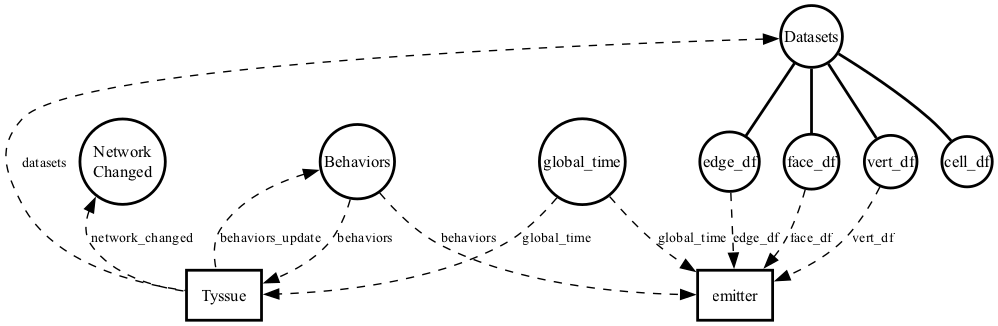
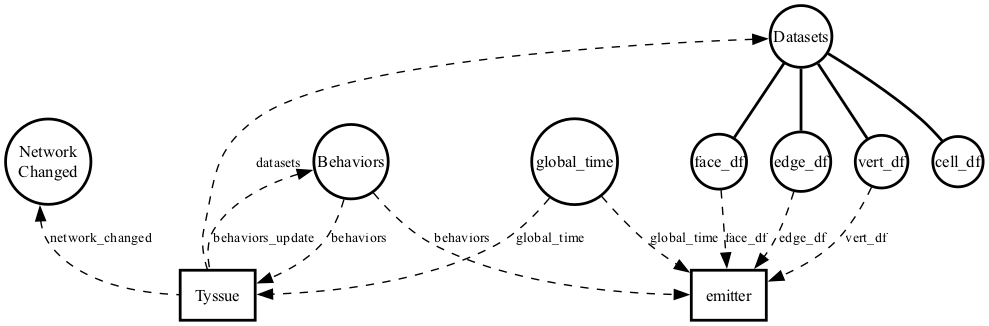
combined divide and divide_crypt

diff --git a/vivarium_tyssue/behaviors/behaviors.py b/vivarium_tyssue/behaviors/behaviors.py
@@ -42,7 +42,7 @@ def divide_cell(sheet, geom, radius=None, cell_uid=None, cell_idx=None):
     return daughter
 
 def division(
-        sheet, manager, geom= "SheetGeometry", cell_uid=0, crit_area=2.0, growth_rate=0.1, dt=1.
+        sheet, manager, geom= "SheetGeometry", cell_uid=0, cell_type=None, crit_area=2.0, growth_rate=0.1, dt=1.
 ):
     """Defines a division behavior.
 
@@ -50,45 +50,19 @@ def division(
     ----------
 
     sheet: a :class:`Sheet` object
-    cell_id: int
-        the index of the dividing cell
+    cell_uid: int
+        the unique_id of the dividing cell
+    cell_type: str, optional
+        If provided, the cell is flagged "dividing" while it grows and both the
+        mother and daughter faces are stamped with this cell_type once division
+        occurs. If None (default), no cell_type bookkeeping is done and the
+        behavior matches the plain division.
     crit_area: float
-        the area at which
+        the area at which the cell divides
     growth_rate: float
         increase in the prefered are per unit time
         A_0(t + dt) = A0(t) * (1 + growth_rate * dt)
     """
-    if type(geom) == str:
-        geometry = GEOMETRY_MAP[geom]
-    else:
-        geometry = geom
-    cell_id = int(sheet.face_df[sheet.face_df["unique_id"] == cell_uid].index[0])
-    if sheet.face_df.loc[cell_id, "area"] > crit_area:
-        # restore prefered_area
-        sheet.face_df.loc[cell_id, "prefered_area"] = 1.0
-        # Do division
-        daughter = cell_division(sheet, cell_id, geometry)
-        # Update the topology
-        sheet.reset_index(order=True)
-        # update geometry
-        geometry.update_all(sheet)
-        sheet.network_changed = True
-        print(f"cell n°{daughter} is born")
-    else:
-        #
-        sheet.face_df.loc[cell_id, "prefered_area"] *= (1 + dt * growth_rate)
-        manager.append(
-            division,
-            geom=geom,
-            cell_uid=cell_uid,
-            crit_area=crit_area,
-            growth_rate=growth_rate,
-            dt=dt
-        )
-
-def divide_crypt(
-        sheet, manager, geom= "SheetGeometry", cell_uid=0, cell_type="None", crit_area=2.0, growth_rate=0.1, dt=1.
-    ):
     if type(geom) == str:
         geometry = GEOMETRY_MAP[geom]
     else:
@@ -101,7 +75,8 @@ def divide_crypt(
         print("Cell not found, skipping division")
         return
     cell_id = int(match[0])
-    sheet.face_df.loc[cell_id, "cell_type"] = "dividing"
+    if cell_type is not None:
+        sheet.face_df.loc[cell_id, "cell_type"] = "dividing"
     if sheet.face_df.loc[cell_id, "area"] > crit_area:
         # restore prefered_area
         sheet.face_df.loc[cell_id, "prefered_area"] = 1.0
@@ -112,14 +87,15 @@ def divide_crypt(
         # update geometry
         geometry.update_all(sheet)
         sheet.network_changed = True
-        sheet.face_df.loc[cell_id, "cell_type"] = cell_type
-        sheet.face_df.loc[daughter, "cell_type"] = cell_type
+        if cell_type is not None:
+            sheet.face_df.loc[cell_id, "cell_type"] = cell_type
+            sheet.face_df.loc[daughter, "cell_type"] = cell_type
         print(f"cell n°{daughter} is born")
     else:
         #
         sheet.face_df.loc[cell_id, "prefered_area"] *= (1 + dt * growth_rate)
         manager.append(
-            divide_crypt,
+            division,
             geom=geom,
             cell_uid=cell_uid,
             cell_type=cell_type,

diff --git a/tests/tests.py b/tests/tests.py
@@ -150,10 +150,10 @@ def get_test_regulation_spec(interval=0.1, config=None, double=False):
         "address": "local:TestRegulations",
         "config": {
             "period": 5,
-            "geom": "VesselGeometry",
+            "geom": "SheetGeometry",
             "crit_area": 2,
             "growth_rate": 0.2,
-            "double": False,
+            "double": double,
         },
         "inputs": {
             "global_time": ["global_time"],
@@ -164,16 +164,16 @@ def get_test_regulation_spec(interval=0.1, config=None, double=False):
         },
         "interval": interval,
     }
-    if double:
-        spec["Regulation"]["config"]["double"] = True
 
     return spec
 
-def run_test_regulation(core, double = False, tf=20, dt=0.1):
+def run_test_regulation(core, double = False, tf=20, dt=0.1, config=None):
+    if config is None:
+        config = get_test_config_flat()
     if double:
-        spec = get_test_regulation_spec(interval=dt, double=True)
+        spec = get_test_regulation_spec(interval=dt, config=config, double=True)
     else:
-        spec = get_test_regulation_spec(interval=dt)
+        spec = get_test_regulation_spec(interval=dt, config=config)
     spec["emitter"] = test_emitter
 
     sim = Composite(

diff --git a/vivarium_tyssue/processes/regulations.py b/vivarium_tyssue/processes/regulations.py
@@ -61,7 +61,7 @@ class TestRegulations(Process):
             faces = inputs["datasets"]["face_df"]
             positive_y = faces.loc[(faces["y"] > 1) & (faces["z"] > -7) & (faces["z"] < 7)]
             def pick():
-                return random.choice(positive_y.index)
+                return int(random.choice(positive_y["unique_id"].values))
 
             base = {
                 "geom": self.config["geom"],
@@ -72,9 +72,9 @@ class TestRegulations(Process):
             }
 
             if self.config["double"]:
-                update = [{**base, "cell_id": pick()}, {**base, "cell_id": pick()}]
+                update = [{**base, "cell_uid": pick()}, {**base, "cell_uid": pick()}]
             else:
-                update = [{**base, "cell_id": pick()}]
+                update = [{**base, "cell_uid": pick()}]
 
         else:
             update = []

diff --git a/vivarium_tyssue/processes/tumor_coupling.py b/vivarium_tyssue/processes/tumor_coupling.py
@@ -112,7 +112,7 @@ class TumorCoupling(Process):
         "copasi_time": "float",
         "copasi_intervals": "integer",
         # topology_ops=true uses real tyssue cell_division / remove_face behaviors
-        # (divide_crypt / apoptosis_extrusion). Those crash under the pandas-3.0 /
+        # (division / apoptosis_extrusion). Those crash under the pandas-3.0 /
         # numpy-2.2 that the COPASI stack forces (tyssue 1.1.0 topology is
         # incompatible). Default false: drive cell FATE on a fixed-topology mesh —
         # birth relabels a source cell into the target type, death relabels a cell
@@ -186,7 +186,7 @@ class TumorCoupling(Process):
 
     # -- behavior dict builders (shapes match gillespie.py / behaviors.py) --
     def _divide(self, uid, cell_type):
-        return {"func": "divide_crypt", "geom": self.geom, "cell_uid": int(uid),
+        return {"func": "division", "geom": self.geom, "cell_uid": int(uid),
                 "dt": self.dt, "cell_type": cell_type, "crit_area": self.division_crit,
                 "growth_rate": self.growth_rate}
 

diff --git a/vivarium_tyssue/processes/gillespie.py b/vivarium_tyssue/processes/gillespie.py
@@ -166,7 +166,7 @@ class Gillespie(Process):
         if rate_event/self.rates_max[cell_type][jump] >= u1:
             if jump == cell_type:
                 event = [{
-                    "func": "divide_crypt",
+                    "func": "division",
                     "geom": self.geom,
                     "cell_uid": cell_uid,
                     "dt": self.global_interval,

diff --git a/vivarium_tyssue/maps/behavior_maps.py b/vivarium_tyssue/maps/behavior_maps.py
@@ -10,7 +10,6 @@ BEHAVIOR_MAP = {
     "update_tension": update_tension,
     "cell_jamming": cell_jamming,
     "apply_gradient": apply_gradient,
-    "divide_crypt": divide_crypt,
     "apoptosis_extrusion": apoptosis_extrusion,
     "differentiation": differentiation,
 }

diff --git a/docs/superpowers/plans/2026-06-12-tumor-tyssue-coupling.md b/docs/superpowers/plans/2026-06-12-tumor-tyssue-coupling.md
@@ -4,7 +4,7 @@
 
 **Goal:** Couple BioModels `BIOMD0000000903` (breast-cancer population ODE, run in COPASI) to a tyssue 2D vertex-model sheet so the SBML model's per-step birth/death fluxes drive discrete division/apoptosis/differentiation events on the mesh; deliver one investigation with two studies and a draft PR.
 
-**Architecture:** A new tyssue-side `TumorCoupling` process is *"Gillespie, but driven by COPASI reaction fluxes instead of internal rates."* Each step it reads the COPASI `fluxes` output, scales each birth/death flux into a fractional event accumulator per cell type, fires `floor(accumulator)` discrete behaviors (`divide_crypt` / `apoptosis_extrusion` / `differentiation`) on cells it selects from the tyssue `datasets`, and emits scalar observables (`tumor_births`, `healthy_deaths`, `tumor_count`, …). Three processes share `Behaviors` / `Datasets` / `global_time` stores exactly like the existing `gillespie.composite.yaml`. Births/deaths/composition timeseries reuse the framework's `local:TimeSeriesFromObservables`; one new `TissueSheetSnapshots` viz renders cell-type-colored panels.
+**Architecture:** A new tyssue-side `TumorCoupling` process is *"Gillespie, but driven by COPASI reaction fluxes instead of internal rates."* Each step it reads the COPASI `fluxes` output, scales each birth/death flux into a fractional event accumulator per cell type, fires `floor(accumulator)` discrete behaviors (`division` / `apoptosis_extrusion` / `differentiation`) on cells it selects from the tyssue `datasets`, and emits scalar observables (`tumor_births`, `healthy_deaths`, `tumor_count`, …). Three processes share `Behaviors` / `Datasets` / `global_time` stores exactly like the existing `gillespie.composite.yaml`. Births/deaths/composition timeseries reuse the framework's `local:TimeSeriesFromObservables`; one new `TissueSheetSnapshots` viz renders cell-type-colored panels.
 
 **Tech Stack:** process-bigraph, bigraph-schema, tyssue, pbg-copasi (`CopasiUTCProcess` + basico/COPASI), pbg-biomodels (`load_biomodel`), pbg-superpowers (Visualization, TimeSeriesFromObservables, study/investigation spine), matplotlib, pytest.
 
@@ -22,7 +22,7 @@
 - **Species:** `C` (stem, init 7.37e5), `T` (tumor, 7.62e6), `H` (healthy, 2.5e7), `I` (immune, 0), `E` (estrogen, 0). Fluxes are O(1e3–1e7).
 - **tyssue process:** `vivarium_tyssue.processes.eulersolver.EulerSolver`, `local:EulerSolver`. Inputs `behaviors: list[node]`, `global_time: float`. Outputs `datasets: tyssue_data`, `network_changed`, `behaviors_update`. Consumes behaviors via `BEHAVIOR_MAP` + `EventManager` (`vivarium_tyssue/processes/eulersolver.py:185-227`).
 - **Behavior dicts** (from `vivarium_tyssue/processes/gillespie.py:164-198`, executed by `vivarium_tyssue/behaviors/behaviors.py`):
-  - divide: `{"func": "divide_crypt", "geom": <str>, "cell_uid": <int>, "dt": <float>, "cell_type": <str>, "crit_area": <float>, "growth_rate": <float>}` → `cell_division` (immediate when `area > crit_area`).
+  - divide: `{"func": "division", "geom": <str>, "cell_uid": <int>, "dt": <float>, "cell_type": <str>, "crit_area": <float>, "growth_rate": <float>}` → `cell_division` (immediate when `area > crit_area`).
   - death: `{"func": "apoptosis_extrusion", "geom": <str>, "cell_uid": <int>, "dt": <float>, "crit_area": <float>, "shrink_rate": <float>}` → `remove_face` (immediate when `area < crit_area`).
   - differentiate: `{"func": "differentiation", "cell_uid": <int>, "new_type": <str>}` → relabels `face_df.cell_type`.
   - Immediate events: relaxed sheet faces have `area ≈ 1.0`, so `crit_area_div=0.5` (area>0.5 ⇒ divide) and `crit_area_apop=2.0` (area<2.0 ⇒ remove) make events fire on first execution.
@@ -430,7 +430,7 @@ def test_flux_step_fires_division_and_apoptosis():
               "H_birth": 0.0, "C_birth": 0.0, "C_death": 0.0}
     out = proc.update({"fluxes": fluxes, "datasets": ds, "global_time": 5.0}, 1.0)
     funcs = sorted(b["func"] for b in out["behaviors"])
-    # one tumor birth (divide_crypt or differentiation of stem) + one healthy death
+    # one tumor birth (division or differentiation of stem) + one healthy death
     assert "apoptosis_extrusion" in funcs
     assert out["healthy_deaths"] == 1.0 and out["tumor_births"] == 1.0
     assert out["tumor_count"] == 2.0 and out["healthy_count"] == 2.0
@@ -506,7 +506,7 @@ class TumorCoupling(Process):
 
     # -- behavior dict builders (shapes match gillespie.py / behaviors.py) --
     def _divide(self, uid, cell_type):
-        return {"func": "divide_crypt", "geom": self.geom, "cell_uid": int(uid),
+        return {"func": "division", "geom": self.geom, "cell_uid": int(uid),
                 "dt": self.dt, "cell_type": cell_type, "crit_area": self.division_crit,
                 "growth_rate": self.growth_rate}
 

diff --git a/docs/superpowers/specs/2026-06-12-tumor-tyssue-coupling-design.md b/docs/superpowers/specs/2026-06-12-tumor-tyssue-coupling-design.md
@@ -58,7 +58,7 @@ EulerSolver (tyssue)                                     # local:EulerSolver
 `TumorCoupling` is structurally **"Gillespie, but driven by COPASI fluxes
 instead of internal rates"** — it reads the tyssue datasets to find target cell
 uids per type and emits the same behavior dicts the existing Gillespie process
-emits (`divide_crypt`, `apoptosis_extrusion`, `differentiation`), which
+emits (`division`, `apoptosis_extrusion`, `differentiation`), which
 `EulerSolver` executes via its `EventManager`.
 
 ### The coupling rule (proportional Δ + accumulator, flux-based)
@@ -80,7 +80,7 @@ which directly feeds the "births over time" / "deaths over time" visualizations.
   cell** (`differentiation` behavior, `new_type="tumor"`) when a stem cell is
   available; otherwise by dividing an existing tumor cell. This honors "stem
   cells source tumor cells" and solves the first-tumor-cell seeding problem.
-- **Births** → `divide_crypt` (tyssue `cell_division`) on a chosen same-type cell.
+- **Births** → `division` (tyssue `cell_division`) on a chosen same-type cell.
 - **Deaths** → `apoptosis_extrusion` (tyssue `remove_face`) on a chosen same-type cell.
 - **Target selection:** pick the cell uid to divide/kill from the matching-type
   cells in `face_df` (uniform or area-weighted; uniform for v1).
@@ -173,7 +173,7 @@ target type (stem→tumor realizes C→T; healthy→stem; dead→healthy regener
 a death relabels a cell to `dead`. Composition still evolves under SBML control
 and every visualization (snapshots, gif, births/deaths/composition timeseries)
 works off `cell_type`. A `topology_ops: true` config flag selects the real
-`divide_crypt`/`apoptosis_extrusion` behaviors for when a pandas-3-compatible
+`division`/`apoptosis_extrusion` behaviors for when a pandas-3-compatible
 tyssue is available (covered by a unit test). Compatibility shims also fixed three
 other tyssue/numpy-2.x/pandas-3.0 issues (StringDtype schema coercion in
 EulerSolver, read-only `shuffle` in `merge_vertices`). The default interval is